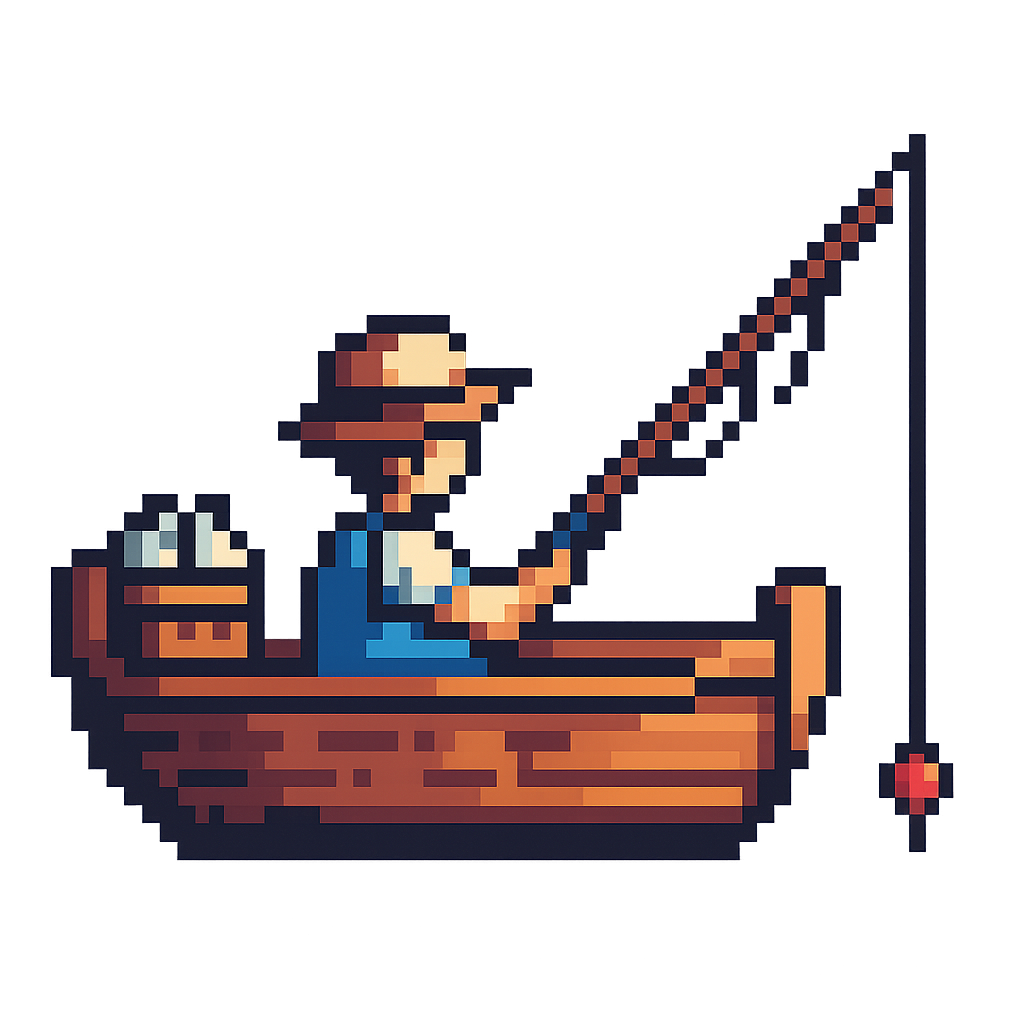
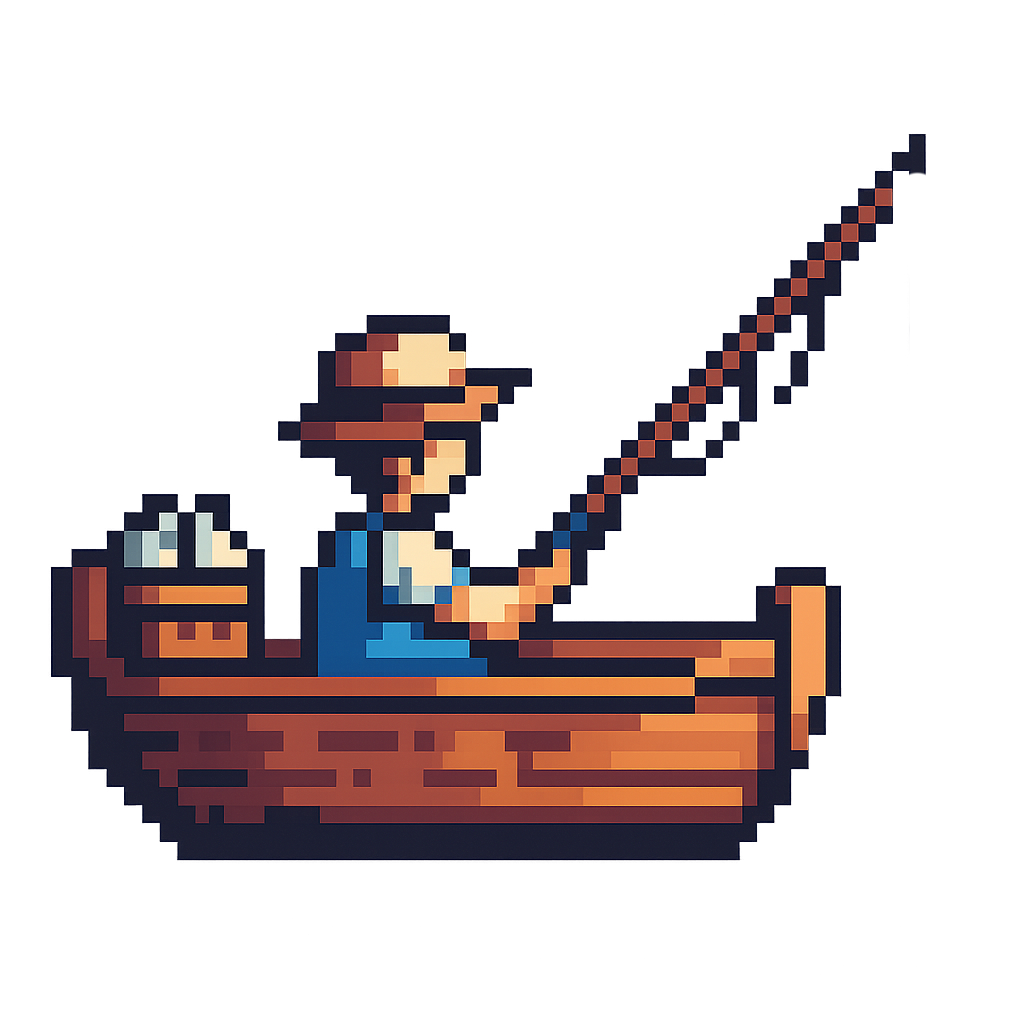
modified:   assets/anzol.png modified:   assets/pescador.png modified:   core/src/main/java/com/CleanSeas/game/CleanSeas.java modified:   core/src/main/java/com/CleanSeas/game/entities/Boat.java modified:   core/src/main/java/com/CleanSeas/game/entities/Hook.java modified:   core/src/main/java/com/C

Changed region(s): [[0.8438, 0.1562, 0.9375, 0.8438]]

diff --git a/core/src/main/java/com/CleanSeas/game/screens/GameMap.java b/core/src/main/java/com/CleanSeas/game/screens/GameMap.java
@@ -107,10 +107,11 @@ public class GameMap implements Screen{
         camera = new OrthographicCamera();
         viewport = new StretchViewport(1280, 720, camera);
         viewport.apply();
+
         //Carrega as imagem
         map = game.assets.get("gamemap.png",Texture.class);
-        b = new Boat(game.assets.get("img_testes.png",Texture.class));
-        h = new Hook(game.assets.get("anzol_testes.png",Texture.class), b.getX(), b.getY() - 20);
+        b = new Boat(game.assets.get("pescador.png",Texture.class));
+        h = new Hook(game.assets.get("anzol.png",Texture.class), b.getX() + 138, b.getY() - 20);
         Ts = new Array<>();
         Fs = new Array<>();
         r = new Random();
@@ -210,7 +211,7 @@ public class GameMap implements Screen{
             needsGameOverTransition = true;
         }
 
-        if (Score >= 1) {
+        if (Score >= 100) {
             needsVictoryTransition = true;
         }
 
@@ -256,6 +257,24 @@ public class GameMap implements Screen{
         b.draw(game.batch);
         h.draw(game.batch);
         game.batch.end();
+
+        shaperenderer.setProjectionMatrix(camera.combined);
+        shaperenderer.begin(ShapeRenderer.ShapeType.Line);
+        shaperenderer.setColor(Color.WHITE);
+
+        float startX = b.getX() + 138;   // ajuste horizontal
+        float startY = b.getY() + 130;   // ajuste vertical
+
+        float endX = h.getX();
+        float endY = h.getY() + 20;
+
+        // Desenha a linha
+        shaperenderer.line(startX, startY, endX, endY);
+        shaperenderer.end();
+        shaperenderer.begin(ShapeRenderer.ShapeType.Filled);
+        shaperenderer.setColor(Color.BLACK);
+        shaperenderer.rectLine(startX, startY, endX, endY, 3f); // largura 4px
+        shaperenderer.end();
 
         DrawBar(hudX, hudY, hudWidth, hudHeight, lifePct);
 

diff --git a/core/src/main/java/com/CleanSeas/game/entities/Hook.java b/core/src/main/java/com/CleanSeas/game/entities/Hook.java
@@ -15,8 +15,9 @@ public class Hook {
     private float velLateral = 300;//velocidaed desvio do anzol
     private float width;
     private float height;
-    private float velY = 30;//para calcular a gravidade
-    private float g;//gravidade
+    private float velY = 30; //para calcular a gravidade
+    private float g; //gravidade
+    private float scale = 0.2f;
 
     public Hook(Texture texture, float startX, float startY){
         this.texture = texture;
@@ -28,7 +29,7 @@ public class Hook {
 
     public void update(float delta, float Xboat, float YBoat) {
         float limEsq = Xboat - 20;//limite desvio para esquerda
-        float limDir = Xboat + 20;//limite de desvio para a direita
+        float limDir = Xboat + 180;//limite de desvio para a direita
 
         //relacionado aos movimentos no eixo Y
         if (Gdx.input.isKeyPressed(Input.Keys.SPACE)) {
@@ -67,17 +68,14 @@ public class Hook {
             }
         }
         else {
-            if (x < Xboat) {
+            float alvo = Xboat + 138;
+            if (x < alvo) {
                 x += velLateral * delta;
-                if (x > Xboat) {
-                    x = Xboat;
-                }
+                if (x > alvo) x = alvo;
             }
-            else if (x > Xboat) {
+            else if (x > alvo) {
                 x -= velLateral * delta;
-                if (x < Xboat) {
-                    x = Xboat;
-                }
+                if (x < alvo) x = alvo;
             }
         }
     }
@@ -95,7 +93,10 @@ public class Hook {
     }
 
     public void draw(SpriteBatch batch) {
-        batch.draw(texture, x, y);
+        float width = texture.getWidth() * scale;
+        float height = texture.getHeight() * scale;
+
+        batch.draw(texture, x - 8, y, width, height);
     }
 
     public void dispose(){

diff --git a/core/src/main/java/com/CleanSeas/game/CleanSeas.java b/core/src/main/java/com/CleanSeas/game/CleanSeas.java
@@ -18,13 +18,13 @@ public class CleanSeas extends Game {
 
         assets.load("gamemap.png", com.badlogic.gdx.graphics.Texture.class);
         assets.load("img_testes.png", com.badlogic.gdx.graphics.Texture.class);
-        assets.load("anzol_testes.png", com.badlogic.gdx.graphics.Texture.class);
+        assets.load("anzol.png", com.badlogic.gdx.graphics.Texture.class);
         assets.load("peixes/surgeonfis.png", com.badlogic.gdx.graphics.Texture.class);
         assets.load("peixes/pufferfish.png", com.badlogic.gdx.graphics.Texture.class);
         assets.load("peixes/anchovy.png", com.badlogic.gdx.graphics.Texture.class);
         assets.load("trash/rusty.png", com.badlogic.gdx.graphics.Texture.class);
         assets.load("trash/worm.png", com.badlogic.gdx.graphics.Texture.class);
-        assets.load("garrafapet.png", com.badlogic.gdx.graphics.Texture.class);
+        assets.load("pescador.png", com.badlogic.gdx.graphics.Texture.class);
 
         assets.finishLoading();
 

diff --git a/core/src/main/java/com/CleanSeas/game/entities/Boat.java b/core/src/main/java/com/CleanSeas/game/entities/Boat.java
@@ -10,6 +10,8 @@ public class Boat {
     private float x = 100;
     private float y = 300;
     private float vel = 100;
+    private float scale = 0.15f;
+
 
     public Boat(Texture texture){
         this.texture = texture;
@@ -39,8 +41,13 @@ public class Boat {
         return y;
     }
 
+    public float getWidth() {return texture.getWidth();}
+
     public void draw(SpriteBatch batch){
-        batch.draw(texture, x, y);
+        float width = texture.getWidth() * scale;
+        float height = texture.getHeight() * scale;
+
+        batch.draw(texture, x, y, width, height);
     }
 
     public void dispose(){
